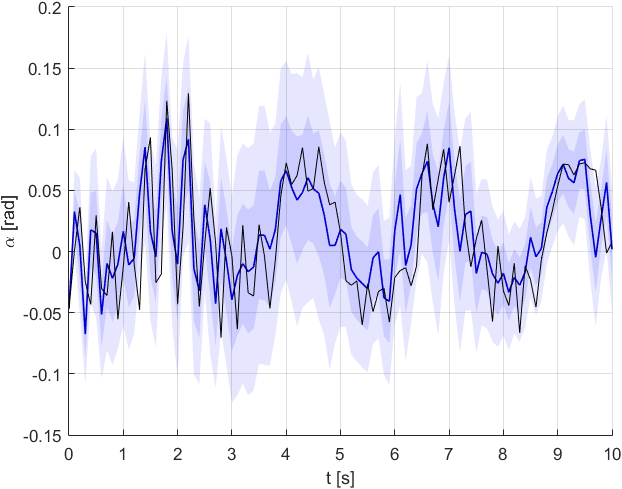
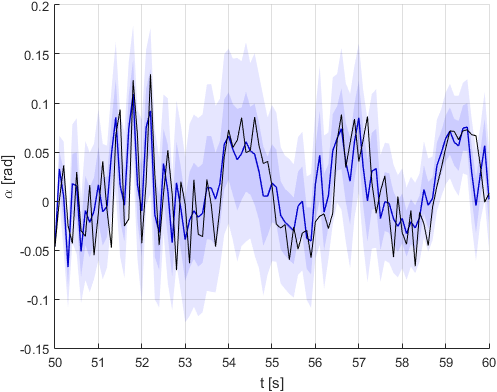
Fix plot axis typo in System Identification prediction plot.

Changed region(s): [[0.0302, 0.0, 1.0, 1.0], [0.5131, 0.3061, 0.996, 0.6735], [0.0, 0.398, 0.0302, 0.5204]]

diff --git a/Chapter5/PitchPlungeIdentification.m b/Chapter5/PitchPlungeIdentification.m
@@ -223,7 +223,7 @@ for i = nm+1:numPoints
 end
 
 % We plot the simulation data which we made.
-t = 0:simdt:(nt-1)*simdt;
+% t = 0:simdt:(nt-1)*simdt;
 figure(7);
 clf(7);
 hold on;
